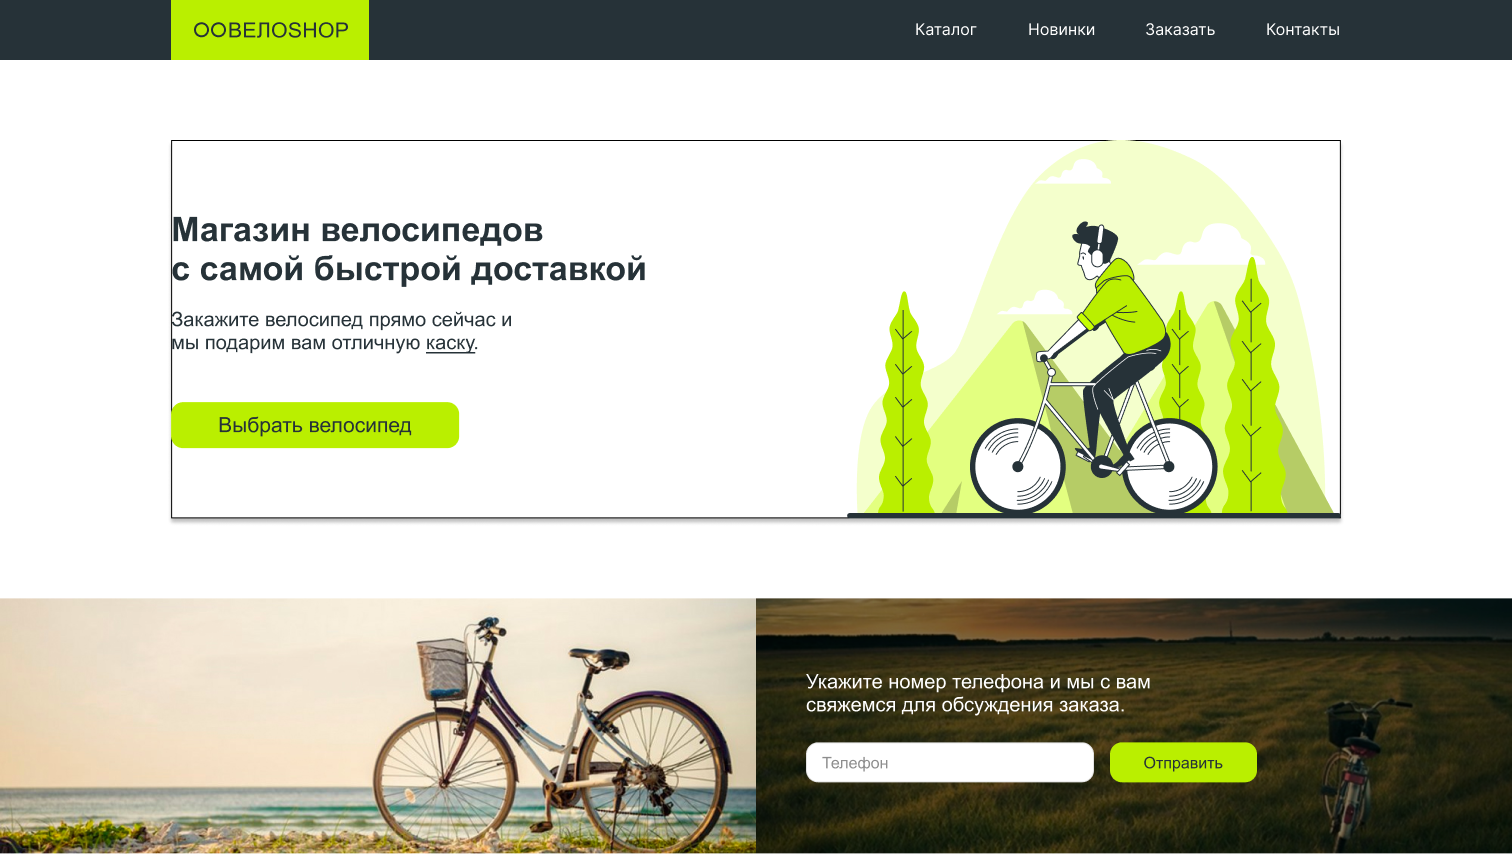
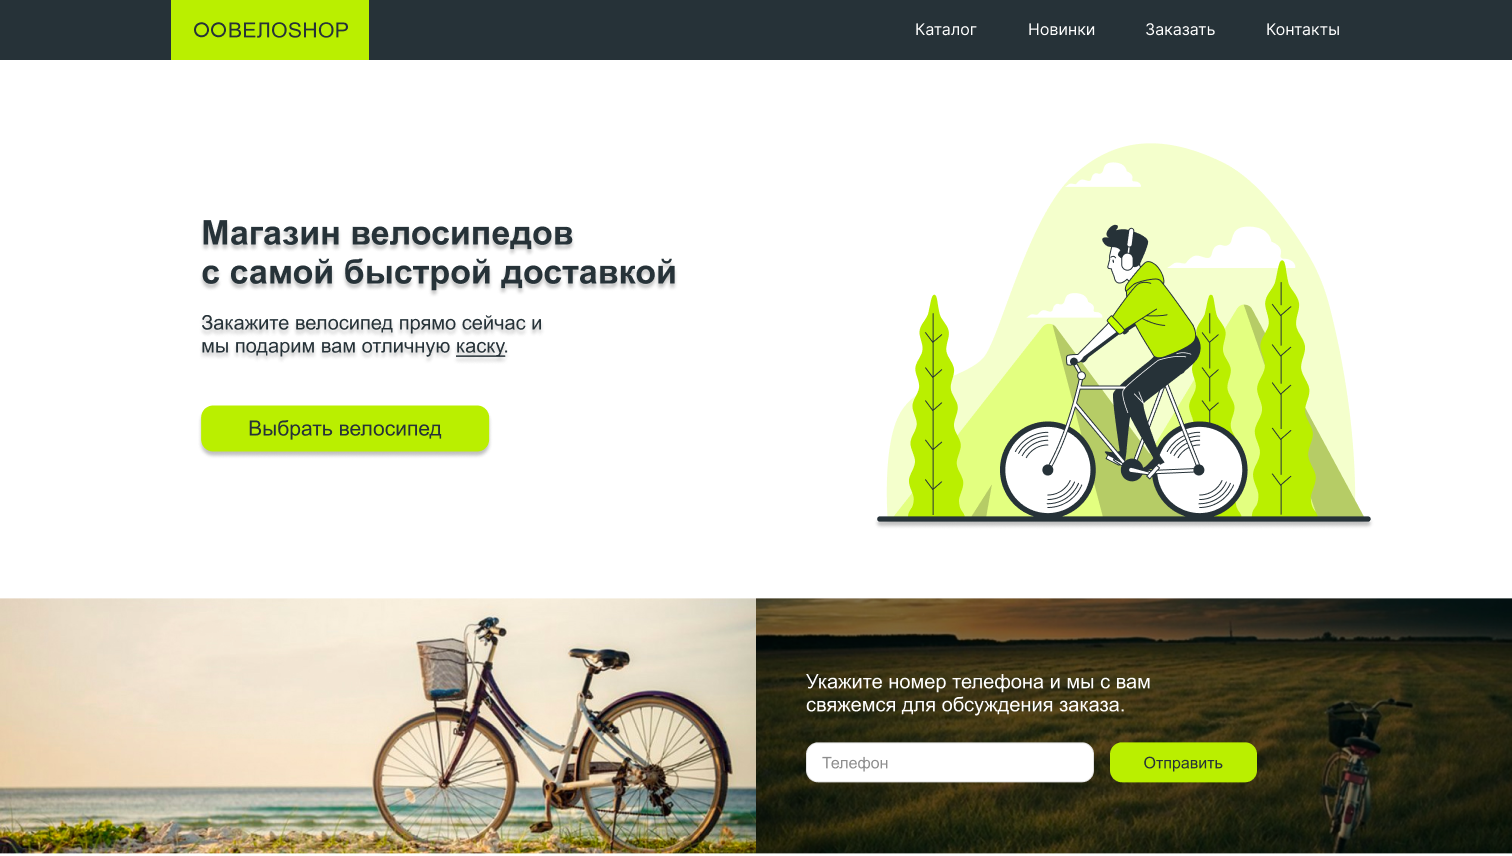
обработка файлов

diff --git a/cards/bike.html b/cards/bike.html
@@ -1,75 +1,78 @@
 <!DOCTYPE html>
 <html lang="en">
 
-    <head>
-        <meta charset="UTF-8">
-        <meta name="viewport" content="width=device-width, initial-scale=1.0">
-        <link rel="stylesheet" href="../styles/style.css">
-        <link rel="stylesheet" href="../styles/media.css">
-        <link rel="preconnect" href="https://fonts.googleapis.com">
-        <link rel="preconnect" href="https://fonts.gstatic.com" crossorigin>
-        <link href="https://fonts.googleapis.com/css2?family=Montserrat:wght@400;600;700&display=swap" rel="stylesheet">
-        <title>Страница Яхт клуба</title>
-    </head>
+<head>
+    <meta charset="UTF-8">
+    <meta name="viewport" content="width=device-width, initial-scale=1.0">
+    <link rel="stylesheet" href="../styles/style.css">
+    <link rel="stylesheet" href="../styles/media.css">
+    <link rel="preconnect" href="https://fonts.googleapis.com">
+    <link rel="preconnect" href="https://fonts.gstatic.com" crossorigin>
+    <link href="https://fonts.googleapis.com/css2?family=Montserrat:wght@400;600;700&display=swap" rel="stylesheet">
+    <title>Страница Яхт клуба</title>
+</head>
 
-    <body>
-        <article class="project">
-            <div class="container">
-                <h1 class="project-header">Верстка интернет магазина <br> "Велосипеды"</h1>
-                <div class="project-image">
-                    <img src="../projects/bykes/img/main.png" alt="Главное фото">
-                    <img class=" project-image_two" src="../projects/bykes/img/catalog.png" alt="Главное фото">
-                </div>
-                <div class="project-info">
-                    <p class="info-paragraf">Интернет магазин разрабатывался как учебный проект на основании обучающего видео Youtube канала. 
-                        работа выполнялась по модели из Figma. Основная разработка производилась самостоятельно, после чего на основании видео дораатывались ошибки.
-                        В процессе разработки была создана страница с компонентами сайта с использованием БЭМ.
-                    </p>
-                    <p class="info-link">Перейти на страницу: <a href="../projects/bykes/bykes.html" target="_blank">bike</a>
-                    <p class="info-link">Страница с компонентами: <a href="../projects/bykes/components.html" target="_blank">components</a>
-                    </p>
-                </div>
-                <a class="button-back" href="../index.html">← Вернуться на главную
-                </a>
+<body>
+    <article class="project">
+        <div class="container">
+            <h1 class="project-header">Верстка интернет магазина <br> "Велосипеды"</h1>
+            <div class="project-image">
+                <img src="../projects/bykes/img/main.png" alt="Главное фото">
             </div>
-        </article>
-
-        <footer class="footer">
-            <div class="container">
-                <div class="footer-row">
-                    <!-- block -->
-                    <div class="copy footer-column">
-                        <div class="footer-copy-name">Ерохин Глеб</div>
-                        <p class="footer-paragraf">HTML верстка и разработка сайтов</p>
-                    </div>
-                    <!-- // block -->
-
-                    <!-- block -->
-                    <div class="social footer-column">
-                        <p class="social-text">Мои профили в социальных сетях:</p>
-                        <div class="social-icons">
-                            <a href="#"><img src="../img/social/inst.svg" alt="instagram"></a>
-                            <a href="#"><img src="../img/social/f.svg" alt="instagram"></a>
-                            <a href="https://vk.com/id645309268" target="_blank"><img src="../img/social/vk.svg"
-                                    alt="instagram"></a>
-                            <a href="#"><img src="../img/social/in.svg" alt="instagram"></a>
-                            <a href="https://github.com/gleb-erokhin" target="_blank"><img
-                                    src="../img/social/gh.svg" alt="instagram"></a>
-                        </div>
-                    </div>
-                    <!-- // block -->
-
-                    <!-- block -->
-                    <div class="call footer-column">
-                        <a class="footer-button" href="#">Связаться вконтакте</a>
-                        <p class="call-paragraf">
-                            Форма для связи находится в разработке
-                        </p>
-                    </div>
-                    <!-- // block -->
-                </div>
+            <div class="project-info">
+                <p class="info-paragraf">Интернет магазин разрабатывался как учебный проект на основании обучающего
+                    видео Youtube канала.
+                    работа выполнялась по модели из Figma. Основная разработка производилась самостоятельно, после чего
+                    на основании видео дораатывались ошибки.
+                    В процессе разработки была создана страница с компонентами сайта с использованием БЭМ.
+                </p>
+                <p class="info-link">Перейти на страницу: <a href="../projects/bykes/bykes.html"
+                        target="_blank">bike</a>
+                <p class="info-link">Страница с компонентами: <a href="../projects/bykes/components.html"
+                        target="_blank">components</a>
+                </p>
             </div>
-        </footer>
-    </body>
+            <a class="button-back" href="../index.html">← Вернуться на главную
+            </a>
+        </div>
+    </article>
+
+    <footer class="footer">
+        <div class="container">
+            <div class="footer-row">
+                <!-- block -->
+                <div class="copy footer-column">
+                    <div class="footer-copy-name">Ерохин Глеб</div>
+                    <p class="footer-paragraf">HTML верстка и разработка сайтов</p>
+                </div>
+                <!-- // block -->
+
+                <!-- block -->
+                <div class="social footer-column">
+                    <p class="social-text">Мои профили в социальных сетях:</p>
+                    <div class="social-icons">
+                        <a href="#"><img src="../img/social/inst.svg" alt="instagram"></a>
+                        <a href="#"><img src="../img/social/f.svg" alt="instagram"></a>
+                        <a href="https://vk.com/id645309268" target="_blank"><img src="../img/social/vk.svg"
+                                alt="instagram"></a>
+                        <a href="#"><img src="../img/social/in.svg" alt="instagram"></a>
+                        <a href="https://github.com/gleb-erokhin" target="_blank"><img src="../img/social/gh.svg"
+                                alt="instagram"></a>
+                    </div>
+                </div>
+                <!-- // block -->
+
+                <!-- block -->
+                <div class="call footer-column">
+                    <a class="footer-button" href="#">Связаться вконтакте</a>
+                    <p class="call-paragraf">
+                        Форма для связи находится в разработке
+                    </p>
+                </div>
+                <!-- // block -->
+            </div>
+        </div>
+    </footer>
+</body>
 
 </html>

diff --git a/styles/style.css b/styles/style.css
@@ -253,21 +253,8 @@ br {
 }
 
 .project-image {
-    padding-bottom: 70px;
-    height: 100vh;
-}
-
-.project-image {
-    position: relative;
-}
-
-.project-image__img {
-    position: absolute;
-}
-
-.project-image_two {
-    top: 100;
-    display: none;
+    padding-bottom: 30px;
+    /* height: 100vh; */
 }
 
 .project-info {
